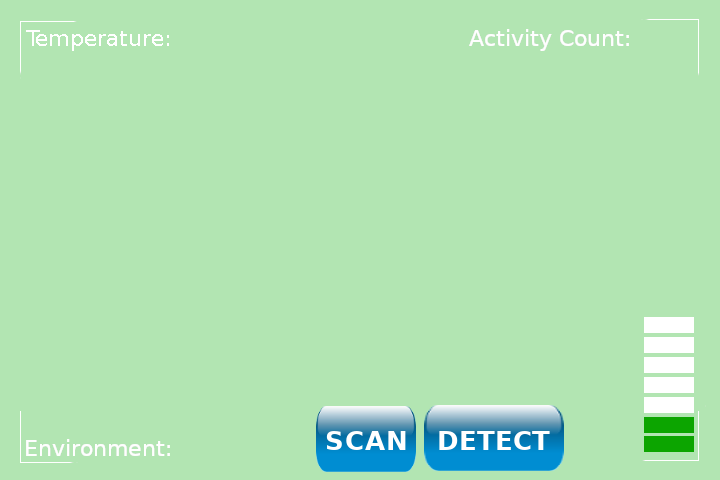
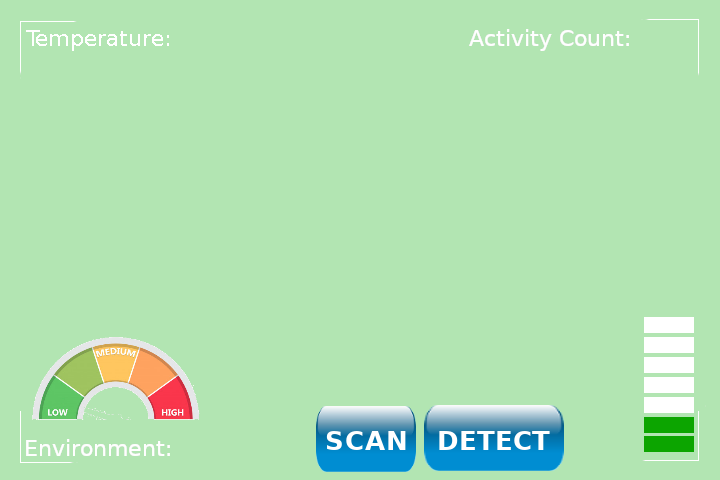
Stuff

Changed region(s): [[0.0306, 0.6875, 0.275, 0.875]]

diff --git a/ghostcv2.py b/ghostcv2.py
@@ -32,7 +32,7 @@ START_FACE_DETECTED=False
 FACE_DETECTED=False
 START_DETECTION_MODE=False
 DETECTION_MODE=False
-DETECTION_MODE=False
+DETECTION_COUNTDOWN=False
 ACTIVITY_COUNT=0
 VOLUME=70
 FRAMES_TO_PERSIST=10
@@ -72,7 +72,7 @@ def GetTemp():
 def DetectObject():
     # When Detection Mode is on, this will look for a face and
     # Circle it for one frame
-    global object_cascade, img, object_cascade, START_FACE_DETECTED, MOTION_DETECTED, last_detect_time
+    global object_cascade, img, object_cascade, START_FACE_DETECTED, MOTION_DETECTED, last_detect_time, DETECTION_COUNTDOWN
 
     # If we are still counting down, exit the routine until we reach zero
     if DETECTION_COUNTDOWN:
@@ -260,15 +260,16 @@ def StreamIt():
                 cv2.putText(img, 'Sensing', (180, 454), cv2.FONT_HERSHEY_SIMPLEX, 1, (0, 255, 255), 2, cv2.LINE_AA)
         else:
             cv2.putText(img, 'Normal', (180, 454), cv2.FONT_HERSHEY_SIMPLEX, 1, (255, 255, 255), 2, cv2.LINE_AA)
-            tempangle=-85
-            if (geiger_duration>0):
-                tempangle=45+random.randrange(40)
+        tempangle=-85
+        if (geiger_duration>0):
+            tempangle=45+random.randrange(40)
 
-            if myangle>tempangle:
-                myangle=myangle-(10/(1+random.randrange(5)))
-            else:
-                myangle=myangle+10
+        if myangle>tempangle:
+            myangle=myangle-(10/(1+random.randrange(5)))
+        else:
+            myangle=myangle+10
 
+        if (not DETECTION_COUNTDOWN):
             tempx=int(114 + 60*(math.sin(math.radians(myangle))))
             tempy=int(420 - 60*(math.cos(math.radians(myangle))))
             img = cv2.line(img, (tempx,tempy), (114,423), (0, 0, 0), 2)
